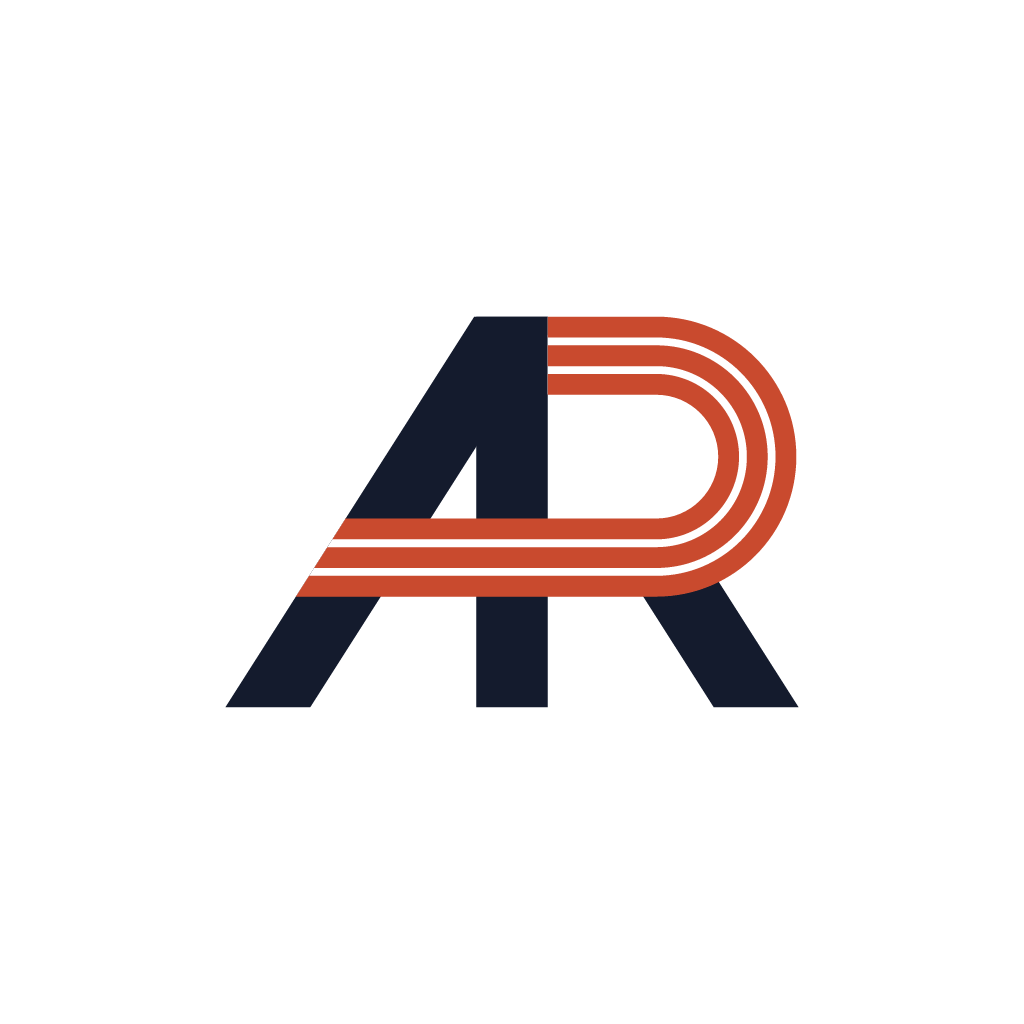
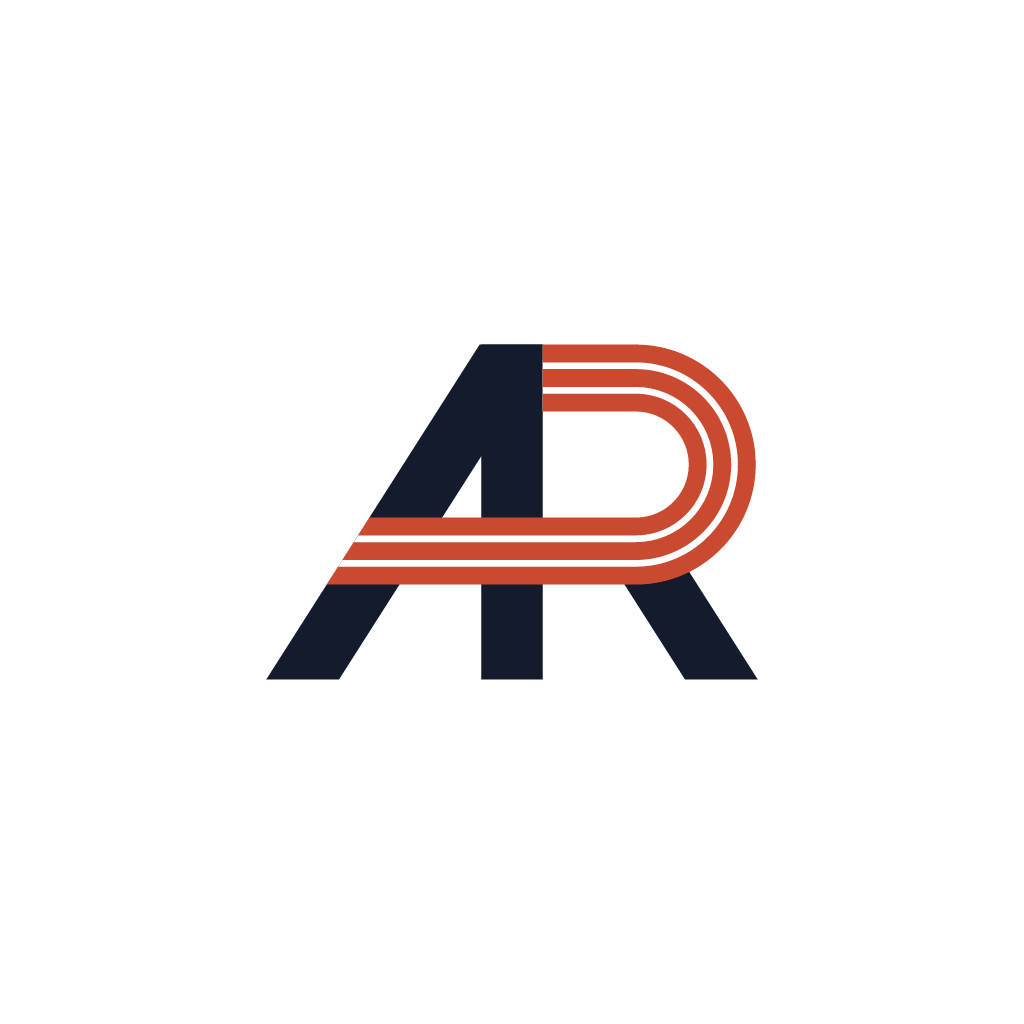
feat: show our launch screen whole, warming Skia's shaders under it
Android 12 and later cut the native launch screen's icon to a circle, which
cut the monogram's feet: there it is only black, and ours is the first thing
seen. It stays at least a second, so that its name fades in and is read, and
goes with the same fade it comes with.

Skia keeps no shaders between runs, and the first widget gallery of each one
spent some 400 ms compiling them: they are made under the launch screen, by
drawing once each kind of thing the widgets draw.

On a dark background the monogram's white showed along the red lanes' edges:
the whole track is now cut out of its stems. The Android icon's logo goes
from 56% to 48% of its width, centered, with air around its feet.

Changed region(s): [[0.2188, 0.2812, 0.7812, 0.7188]]

diff --git a/src/editor/shader-warmup.tsx b/src/editor/shader-warmup.tsx
@@ -1,0 +1,137 @@
+import {
+  BlurMask,
+  Canvas,
+  Circle,
+  DashPathEffect,
+  FilterMode,
+  Group,
+  Image,
+  LinearGradient,
+  MipmapMode,
+  Paint,
+  Path,
+  Picture,
+  Rect,
+  RoundedRect,
+  Skia,
+  type SkImage,
+  type SkPicture,
+  vec,
+} from '@shopify/react-native-skia';
+import { useMemo } from 'react';
+
+import { DropShadow, textShadows } from './scene-text';
+
+/**
+ * The GPU's programs for what the widgets draw, made once while the launch screen covers the app.
+ * Skia compiles a program the first time it draws each kind of thing (a blur of a given size, a
+ * gradient of so many colors, an image with mipmaps) in each run of the app: on a modest phone,
+ * the first opening of the widget gallery spent some 400 ms of the UI thread on that alone, and a
+ * second one, already compiled, didn't (ADR 014). Under the launch screen, unseen, it costs no
+ * frame anyone looks at.
+ */
+
+/** The scales the gallery's tiles and the editor draw widgets at: a blur's program goes by its size. */
+const SCALES = [0.5, 1, 2] as const;
+const CELL = 60;
+
+/** A small image with its mipmaps, drawn as photos are, and a text with its shadow, as a picture. */
+function useWarmupAssets(): { readonly image: SkImage | null; readonly text: SkPicture } {
+  return useMemo(() => {
+    const surface = Skia.Surface.Make(64, 64);
+    let image: SkImage | null = null;
+    if (surface !== null) {
+      surface.getCanvas().clear(Skia.Color('#C94A2E'));
+      image = surface.makeImageSnapshot();
+    }
+    const builder = Skia.ParagraphBuilder.Make({});
+    builder.pushStyle({
+      color: Skia.Color('#FFFFFF'),
+      fontSize: 24,
+      shadows: textShadows('#FFFFFF'),
+    });
+    builder.addText('10.81 KM');
+    builder.pop();
+    const paragraph = builder.build();
+    paragraph.layout(400);
+    const recorder = Skia.PictureRecorder();
+    const canvas = recorder.beginRecording(Skia.XYWHRect(-100, -100, 600, 300));
+    paragraph.paint(canvas, 0, 0);
+    const text = recorder.finishRecordingAsPicture();
+    recorder.dispose();
+    paragraph.dispose();
+    return { image, text };
+  }, []);
+}
+
+/** Draws, once and out of sight, one of each kind of thing a widget draws, at each scale. */
+export function ShaderWarmup() {
+  const { image, text } = useWarmupAssets();
+  const route = useMemo(() => {
+    const builder = Skia.PathBuilder.Make();
+    builder.moveTo(4, 50);
+    builder.cubicTo(20, 0, 40, 60, 56, 10);
+    return builder.detach();
+  }, []);
+  return (
+    <Canvas
+      pointerEvents="none"
+      accessible={false}
+      importantForAccessibility="no"
+      style={{
+        position: 'absolute',
+        left: 0,
+        top: 0,
+        width: CELL * 4,
+        height: CELL * SCALES.length,
+      }}
+    >
+      {SCALES.map((scale, row) => (
+        <Group key={scale} transform={[{ translateY: row * CELL }, { scale }]}>
+          <Group layer={<Paint opacity={0.8} />}>
+            <DropShadow />
+            <Path path={route} style="stroke" strokeWidth={4} strokeCap="round" color="#FFFFFF" />
+          </Group>
+          <Picture picture={text} />
+          <Path path={route} style="stroke" strokeWidth={4} color="#FFFFFF">
+            <BlurMask blur={6} style="normal" />
+          </Path>
+          <Path path={route} style="stroke" strokeWidth={2} color="#FFFFFF">
+            <DashPathEffect intervals={[6, 4]} />
+          </Path>
+        </Group>
+      ))}
+      <Group clip={Skia.RRectXY(Skia.XYWHRect(CELL, 0, CELL * 3, CELL), 12, 12)}>
+        <RoundedRect x={CELL} y={0} width={CELL * 3} height={CELL} r={12}>
+          <LinearGradient start={vec(0, 0)} end={vec(0, CELL)} colors={['#2F2F34', '#19191C']} />
+        </RoundedRect>
+      </Group>
+      <Rect x={CELL} y={CELL} width={CELL} height={CELL}>
+        <LinearGradient
+          start={vec(0, CELL)}
+          end={vec(0, 2 * CELL)}
+          colors={['#FFFFFF', '#C94A2E', '#141B2D']}
+        />
+      </Rect>
+      <Rect x={2 * CELL} y={CELL} width={CELL} height={CELL}>
+        <LinearGradient
+          start={vec(0, CELL)}
+          end={vec(0, 2 * CELL)}
+          colors={['#FFFFFF', '#F6F1EA', '#C94A2E', '#141B2D', '#000000']}
+        />
+      </Rect>
+      <Circle cx={3.5 * CELL} cy={1.5 * CELL} r={CELL / 3} color="#FFFFFF" />
+      {image === null ? null : (
+        <Image
+          image={image}
+          x={CELL}
+          y={2 * CELL}
+          width={CELL * 1.7}
+          height={CELL * 1.3}
+          fit="cover"
+          sampling={{ filter: FilterMode.Linear, mipmap: MipmapMode.Linear }}
+        />
+      )}
+    </Canvas>
+  );
+}

diff --git a/src/app/_layout.tsx b/src/app/_layout.tsx
@@ -2,7 +2,7 @@ import '@/i18n';
 
 import { DarkTheme, Stack, ThemeProvider } from 'expo-router';
 import * as SplashScreen from 'expo-splash-screen';
-import { useEffect, useState } from 'react';
+import { useCallback, useEffect, useRef, useState } from 'react';
 import { useTranslation } from 'react-i18next';
 import { Appearance } from 'react-native';
 import { GestureHandlerRootView } from 'react-native-gesture-handler';
@@ -11,6 +11,7 @@ import { ActivitySourceProvider } from '@/data/activity-source';
 import { TemplateStoreProvider } from '@/data/user-templates';
 import { syncPhrases } from '@/data/phrases';
 import { loadEditorFonts } from '@/editor/fonts';
+import { ShaderWarmup } from '@/editor/shader-warmup';
 import { loadStockPhotos } from '@/editor/stock-photos';
 import { colors } from '@/theme/colors';
 import { LaunchScreen } from '@/ui/launch-screen';
@@ -35,11 +36,52 @@ SplashScreen.setOptions({ duration: 200, fade: true });
  */
 const MAX_LAUNCH_WAIT_MS = 8000;
 
+/**
+ * Shortest time our launch screen stays once it is on screen: its name fades in under the monogram
+ * and is read before it goes. In a build the fonts are ready in half a second, and it went before
+ * the name showed (the user's decision: it is always seen whole).
+ */
+const MIN_LAUNCH_SHOWN_MS = 1000;
+
+/**
+ * When the GPU's programs are made under the launch screen (see `ShaderWarmup`): once its name has
+ * faded in, which a busy UI thread would make stutter.
+ */
+const WARMUP_AFTER_MS = 600;
+
 export default function RootLayout() {
   const { t } = useTranslation();
   // Our launch screen stays until the editor's fonts are loaded, so no screen waits for them later
-  // (opening an activity used to); the app loads under it meanwhile.
-  const [launching, setLaunching] = useState(true);
+  // (opening an activity used to), and at least `MIN_LAUNCH_SHOWN_MS`; the app loads under it
+  // meanwhile.
+  const [fontsSettled, setFontsSettled] = useState(false);
+  const [shownLongEnough, setShownLongEnough] = useState(false);
+  const [warming, setWarming] = useState(false);
+  const warmupTimer = useRef<ReturnType<typeof setTimeout> | null>(null);
+  const launching = !(fontsSettled && shownLongEnough);
+  // Ready, it still fades out before it goes (see `LaunchScreen`).
+  const [launchGone, setLaunchGone] = useState(false);
+  const onLaunchGone = useCallback(() => setLaunchGone(true), []);
+  const shownTimer = useRef<ReturnType<typeof setTimeout> | null>(null);
+  const onLaunchShown = () => {
+    if (shownTimer.current !== null) {
+      return;
+    }
+    SplashScreen.hide();
+    shownTimer.current = setTimeout(() => setShownLongEnough(true), MIN_LAUNCH_SHOWN_MS);
+    warmupTimer.current = setTimeout(() => setWarming(true), WARMUP_AFTER_MS);
+  };
+  useEffect(
+    () => () => {
+      if (shownTimer.current !== null) {
+        clearTimeout(shownTimer.current);
+      }
+      if (warmupTimer.current !== null) {
+        clearTimeout(warmupTimer.current);
+      }
+    },
+    [],
+  );
   // The screens mount once their text has its faces, under the launch screen: laid out with the
   // system's font, they would jump when Inter came. A failure leaves the system's.
   const [facesLoaded, setFacesLoaded] = useState(false);
@@ -49,12 +91,12 @@ export default function RootLayout() {
       .finally(() => setFacesLoaded(true));
   }, []);
   useEffect(() => {
-    const timeout = setTimeout(() => setLaunching(false), MAX_LAUNCH_WAIT_MS);
+    const timeout = setTimeout(() => setFontsSettled(true), MAX_LAUNCH_WAIT_MS);
     loadEditorFonts()
       .catch((error: unknown) => logError('Could not load the editor fonts at launch', error))
       .finally(() => {
         clearTimeout(timeout);
-        setLaunching(false);
+        setFontsSettled(true);
       });
     return () => clearTimeout(timeout);
   }, []);
@@ -90,7 +132,10 @@ export default function RootLayout() {
             ) : null}
           </TemplateStoreProvider>
         </ActivitySourceProvider>
-        {launching ? <LaunchScreen onShown={() => SplashScreen.hide()} /> : null}
+        {launching && warming ? <ShaderWarmup /> : null}
+        {launchGone ? null : (
+          <LaunchScreen leaving={!launching} onShown={onLaunchShown} onGone={onLaunchGone} />
+        )}
       </GestureHandlerRootView>
     </ThemeProvider>
   );

diff --git a/src/ui/launch-screen.tsx b/src/ui/launch-screen.tsx
@@ -1,6 +1,14 @@
+import { useEffect } from 'react';
 import { useTranslation } from 'react-i18next';
 import { StyleSheet, View } from 'react-native';
-import Animated, { FadeIn, FadeOut } from 'react-native-reanimated';
+import Animated, {
+  Easing,
+  FadeIn,
+  useAnimatedStyle,
+  useSharedValue,
+  withTiming,
+} from 'react-native-reanimated';
+import { scheduleOnRN } from 'react-native-worklets';
 
 import { MarkOnDark, WordmarkOnDark } from '@/editor/brand/brand-art';
 import { BRAND_GEOMETRY } from '@/editor/brand/geometry.generated';
@@ -13,31 +21,61 @@ import { colors } from '@/theme/colors';
 const MARK_WIDTH = 180;
 const MARK_HEIGHT = (MARK_WIDTH * BRAND_GEOMETRY.mark.height) / BRAND_GEOMETRY.mark.width;
 
-/** The name's width under the monogram, the room between them, and how it fades in. */
+/** The name's width under the monogram, and the room between them. */
 const WORD_WIDTH = 132;
 const WORD_GAP = 28;
-const WORD_FADE = FadeIn.duration(400).delay(150);
 
-/** How the launch screen fades out once the app is ready. */
-const LAUNCH_FADE = FadeOut.duration(300);
+/**
+ * The one fade of the launch screen, the same both ways (the user's decision): its name fades in
+ * with it, and the whole screen fades out with it once the app is ready. The out is animated here,
+ * not as it unmounts: that way it vanished at once.
+ */
+const FADE_MS = 400;
+const FADE_EASING = Easing.inOut(Easing.quad);
+const WORD_FADE = FadeIn.duration(FADE_MS).easing(FADE_EASING).delay(150);
 
 /**
  * The app's own launch screen, over it while it gets ready (see `app/_layout.tsx`): AllRun's
  * monogram where the native launch screen shows it, and its name fading in under it, on the app's
  * own background (black, as the home screen and the dark native launch screen), so nothing changes
- * color when it fades out, as its parent stops showing it. Drawn by the app, it is the same in Expo
- * Go, in a development build and in the stores; `onShown` is when it is on screen, to let the
- * native one go.
+ * color when it fades out. Once `leaving`, it fades out, and `onGone` says it can be taken away.
+ * Drawn by the app, it is the same in Expo Go, in a development build and in the stores; `onShown`
+ * is when it is on screen, to let the native one go. On Android the native one is only black: from
+ * Android 12 the system cuts its icon to a circle, which cut the monogram's feet, so this is the
+ * first thing seen there.
  */
-export function LaunchScreen({ onShown }: { readonly onShown: () => void }) {
+export function LaunchScreen({
+  leaving,
+  onShown,
+  onGone,
+}: {
+  readonly leaving: boolean;
+  readonly onShown: () => void;
+  readonly onGone: () => void;
+}) {
   const { t } = useTranslation();
+  const opacity = useSharedValue(1);
+  useEffect(() => {
+    if (!leaving) {
+      return;
+    }
+    opacity.set(
+      withTiming(0, { duration: FADE_MS, easing: FADE_EASING }, (finished) => {
+        if (finished === true) {
+          scheduleOnRN(onGone);
+        }
+      }),
+    );
+  }, [leaving, opacity, onGone]);
+  const fading = useAnimatedStyle(() => ({ opacity: opacity.get() }));
   return (
     <Animated.View
-      exiting={LAUNCH_FADE}
       onLayout={onShown}
-      accessible
+      // While it fades out, the app under it already takes the touches.
+      pointerEvents={leaving ? 'none' : 'auto'}
+      accessible={!leaving}
       accessibilityLabel={t('launch.loading')}
-      style={styles.screen}
+      style={[styles.screen, fading]}
     >
       <MarkOnDark width={MARK_WIDTH} />
       {/* Under the monogram, which stays where the native launch screen has it. */}

diff --git a/src/editor/brand/brand-art.tsx b/src/editor/brand/brand-art.tsx
@@ -45,7 +45,15 @@ const WORD_PALETTES: Readonly<Record<LogoTone, WordPalette>> = {
 
 interface BrandPaths {
   readonly stems: SkPath;
-  /** The stems with the lines between lanes cut out, for transparent lines. */
+  /**
+   * The stems with the whole track cut out, its lanes and the lines between them, for transparent
+   * lines. Left under the lanes, the stems' white showed along the lanes' smoothed edges.
+   */
+  readonly stemsOutsideTrack: SkPath;
+  /**
+   * The stems with only the lines between lanes cut out, for a monogram of one color: cut out of
+   * the lanes too, their edge against a lane of the same color would let the background through.
+   */
   readonly stemsWithoutGaps: SkPath;
   readonly lanes: SkPath;
   readonly lines: SkPath;
@@ -77,10 +85,15 @@ let cachedPaths: BrandPaths | null = null;
 function brandPaths(): BrandPaths {
   if (cachedPaths === null) {
     const stems = parse(BRAND_GEOMETRY.mark.stems);
+    const lanes = BRAND_GEOMETRY.mark.lanes.map(parse);
     cachedPaths = {
       stems,
+      stemsOutsideTrack: combine(
+        [stems, ...BRAND_GEOMETRY.mark.gaps.map(parse), ...lanes],
+        PathOp.Difference,
+      ),
       stemsWithoutGaps: combine([stems, ...BRAND_GEOMETRY.mark.gaps.map(parse)], PathOp.Difference),
-      lanes: combine(BRAND_GEOMETRY.mark.lanes.map(parse), PathOp.Union),
+      lanes: combine(lanes, PathOp.Union),
       lines: parse(BRAND_GEOMETRY.mark.lines),
       wordAll: parse(BRAND_GEOMETRY.wordmark.all),
       wordRun: parse(BRAND_GEOMETRY.wordmark.run),
@@ -95,7 +108,10 @@ function MarkShape({ palette }: { readonly palette: MarkPalette }) {
   if (palette.lines === null) {
     return (
       <Group>
-        <Path path={paths.stemsWithoutGaps} color={palette.stems} />
+        <Path
+          path={palette.stems === palette.lanes ? paths.stemsWithoutGaps : paths.stemsOutsideTrack}
+          color={palette.stems}
+        />
         <Path path={paths.lanes} color={palette.lanes} />
       </Group>
     );

diff --git a/.claude/rules/app-shell.md b/.claude/rules/app-shell.md
@@ -9,10 +9,10 @@ paths:
 
 # Pantallas: carga, barra superior, inicio y selección
 
-- Pantalla de carga propia (`ui/launch-screen.tsx`): el monograma donde lo pone la splash nativa y el nombre debajo, sobre el fondo de la app (negro, como el inicio y la splash oscura). Las pantallas se montan debajo cuando ya están las caras de Inter de la interfaz y la fuente de iconos (`loadInterfaceFonts`), para que ningún texto salte, y la pantalla sigue mientras cargan las fuentes de Skia (32 ficheros, 5,4 MB, una vez por sesión: `loadEditorFonts`), como mucho 8 s (`MAX_LAUNCH_WAIT_MS` en `app/_layout.tsx`). A la vez, sin retenerla, se decodifican las fotos de stock (`loadStockPhotos`). En Expo Go las fuentes se descargan de Metro por la WiFi y la splash nativa es el icono de la app; en una build instalada se leen del teléfono.
+- Pantalla de carga propia (`ui/launch-screen.tsx`): el monograma donde lo pone la splash nativa y el nombre debajo, sobre el fondo de la app (negro, como el inicio y la splash oscura). Las pantallas se montan debajo cuando ya están las caras de Inter de la interfaz y la fuente de iconos (`loadInterfaceFonts`), para que ningún texto salte, y la pantalla sigue mientras cargan las fuentes de Skia (32 ficheros, 5,4 MB, una vez por sesión: `loadEditorFonts`), como mucho 8 s (`MAX_LAUNCH_WAIT_MS` en `app/_layout.tsx`), y al menos 1 s desde que se ve (`MIN_LAUNCH_SHOWN_MS`), para que el nombre aparezca y se lea: en una build las fuentes están en medio segundo y se iba antes (decisión del usuario: se ve siempre entera). Se va con el mismo fundido con que aparece su nombre (`FADE_MS` y `FADE_EASING`, decisión del usuario), que anima ella misma y avisa al acabar (`onGone`): como animación de salida al desmontarse, desaparecía de golpe. En Android la splash nativa es solo negra (`splash-blank.png`, en `app.json`): desde Android 12 el sistema recorta su icono a un círculo, que cortaba los pies del monograma, y el usuario solo quiere ver la nuestra. A la vez, sin retenerla, se decodifican las fotos de stock (`loadStockPhotos`). En Expo Go las fuentes se descargan de Metro por la WiFi y la splash nativa es el icono de la app; en una build instalada se leen del teléfono.
 - `ui/top-bar.tsx`: la barra de arriba de inicio y selección, propia de cada pantalla y con un cristal propio: desenfoque con `expo-blur` bajo un degradado translúcido, y en Android solo un gris translúcido más oscuro, porque su desenfoque copia la pantalla en cada fotograma (ADR 014). Nunca un control de SwiftUI en la cabecera nativa: saltaba al entrar, se cortaba y salía duplicado al volver.
 - Las pestañas de inicio y de selección, y Recientes, Favoritas y Álbumes, siguen montadas al cambiar (`KeptMounted`): no cargan de nuevo y cada lista sigue donde estaba (decisión del usuario); los resúmenes empiezan a cargar poco después de abrir.
 - Tarjetas de listas (`cardSurface` y `CardGradient`, ADR 014): sin sombra difuminada ni `overflow: 'hidden'`, con el degradado pintado una vez en un lienzo, que también lleva la ruta de la tarjeta (línea sólida de 3 pt, sin brillo, decisión del usuario). `removeClippedSubviews` desactivado donde haya lienzos.
 - El filtro del inicio es un desplegable propio (`home/sport-filter-menu.tsx`; con un deporte elegido, su botón muestra el icono de ese deporte, decisión del usuario) y no el menú nativo: react-native-screens pone la imagen de una opción cuando termina de cargarla, cuando iOS ya ha construido el menú, y no se ve.
 - App siempre oscura (ADR 009): `userInterfaceStyle` en `app.json` y `Appearance.setColorScheme('dark')` en el layout, que es lo que lo aplica en Expo Go. Los colores son los de iOS en oscuro, fijos en todos los teléfonos (`theme/colors.ts`), y no los semánticos ni los dinámicos de Material You, que siguen el fondo de pantalla: así lo que dibuja Skia es del mismo color que el texto de al lado.
-- Fotos: `photos/photo-browser.tsx`, en la selección (`app/select.tsx`) y, en una hoja, dentro del editor (`use-photo-picker.tsx`); lee de `data/photo-library.ts`. La pestaña Stickers es `editor/sticker-gallery.tsx`. En Android, Expo Go rechaza a propósito el acceso a las fotos: se prueban en una build propia.
+- Fotos: `photos/photo-browser.tsx`, en la selección (`app/select.tsx`) y, en una hoja, dentro del editor (`use-photo-picker.tsx`); lee de `data/photo-library.ts`. La pestaña Stickers es `editor/sticker-gallery.tsx`. En Android, Expo Go rechaza a propósito el acceso a las fotos: se prueban en una build propia. Sin acceso, en Android el botón es siempre «Permitir acceso» y vuelve a preguntar: Android dice que ya no preguntaría en cuanto se cierra su aviso tocando fuera, aunque sí lo haría; solo abre Ajustes si la petición vuelve sin aviso en menos de `NO_PROMPT_MS` (denegado para siempre). En iOS, «Abrir Ajustes» cuando el sistema dice que no preguntará (`photos/photo-access.ts`, con test).
